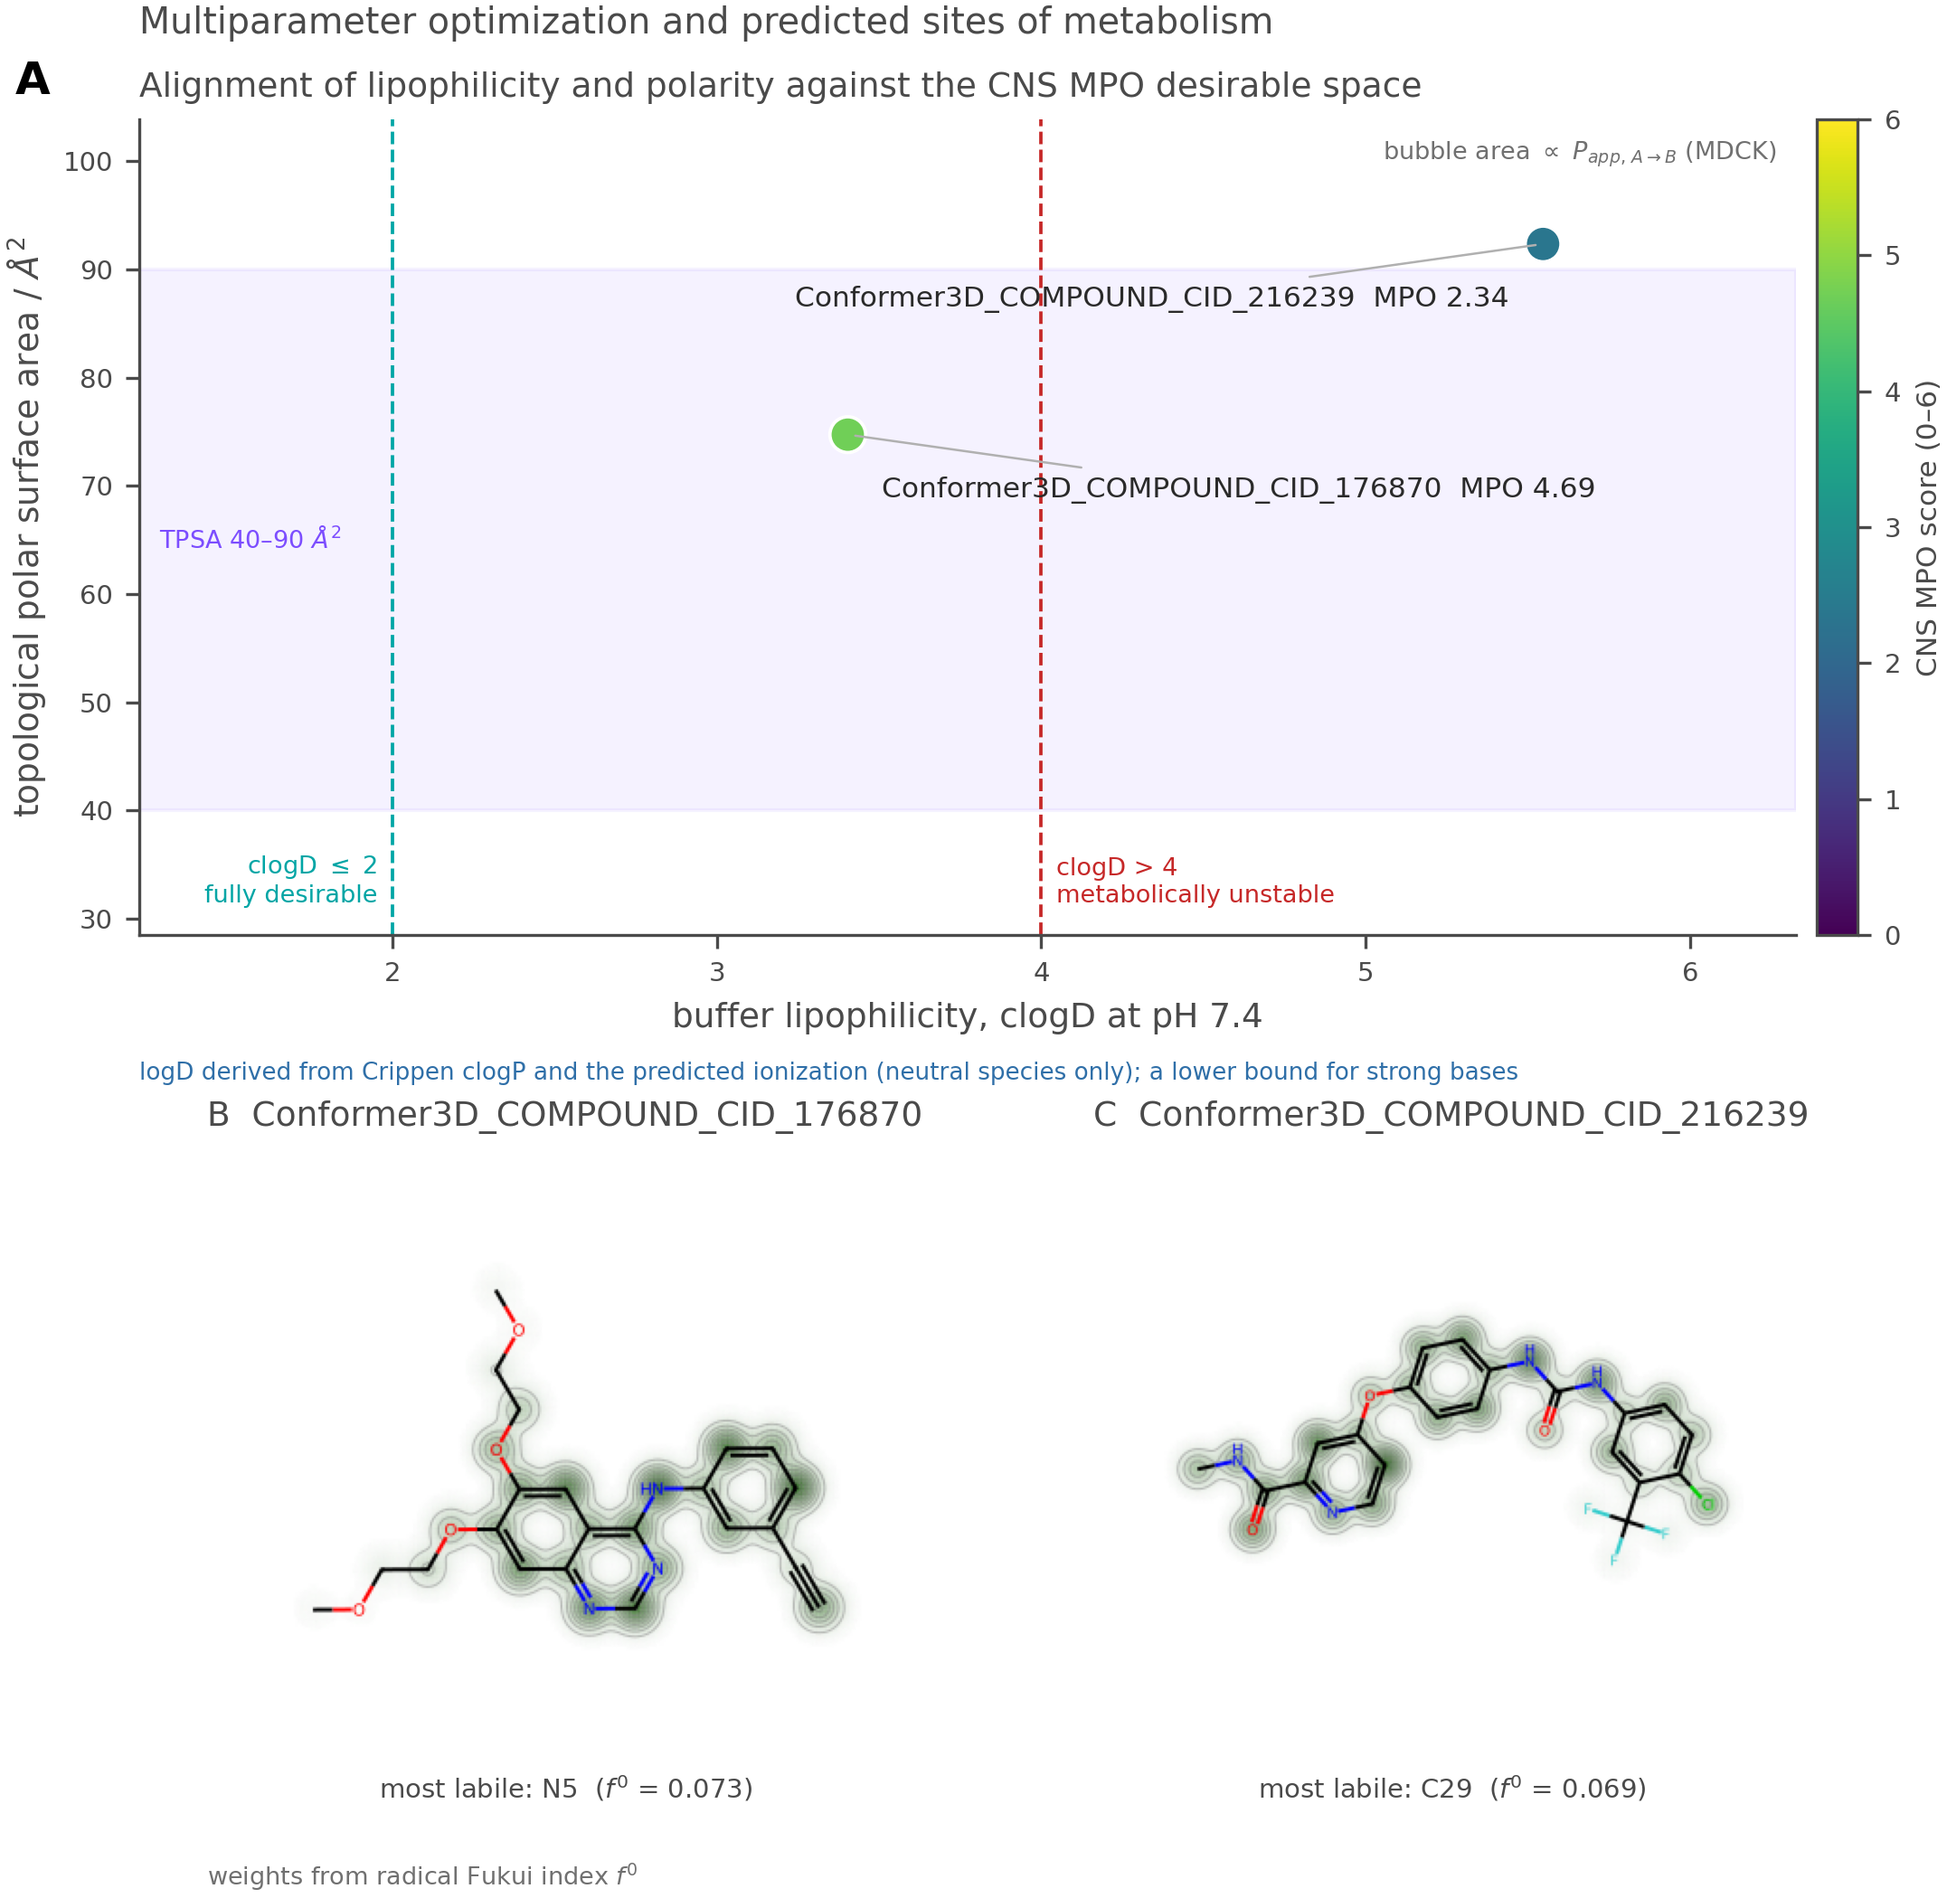
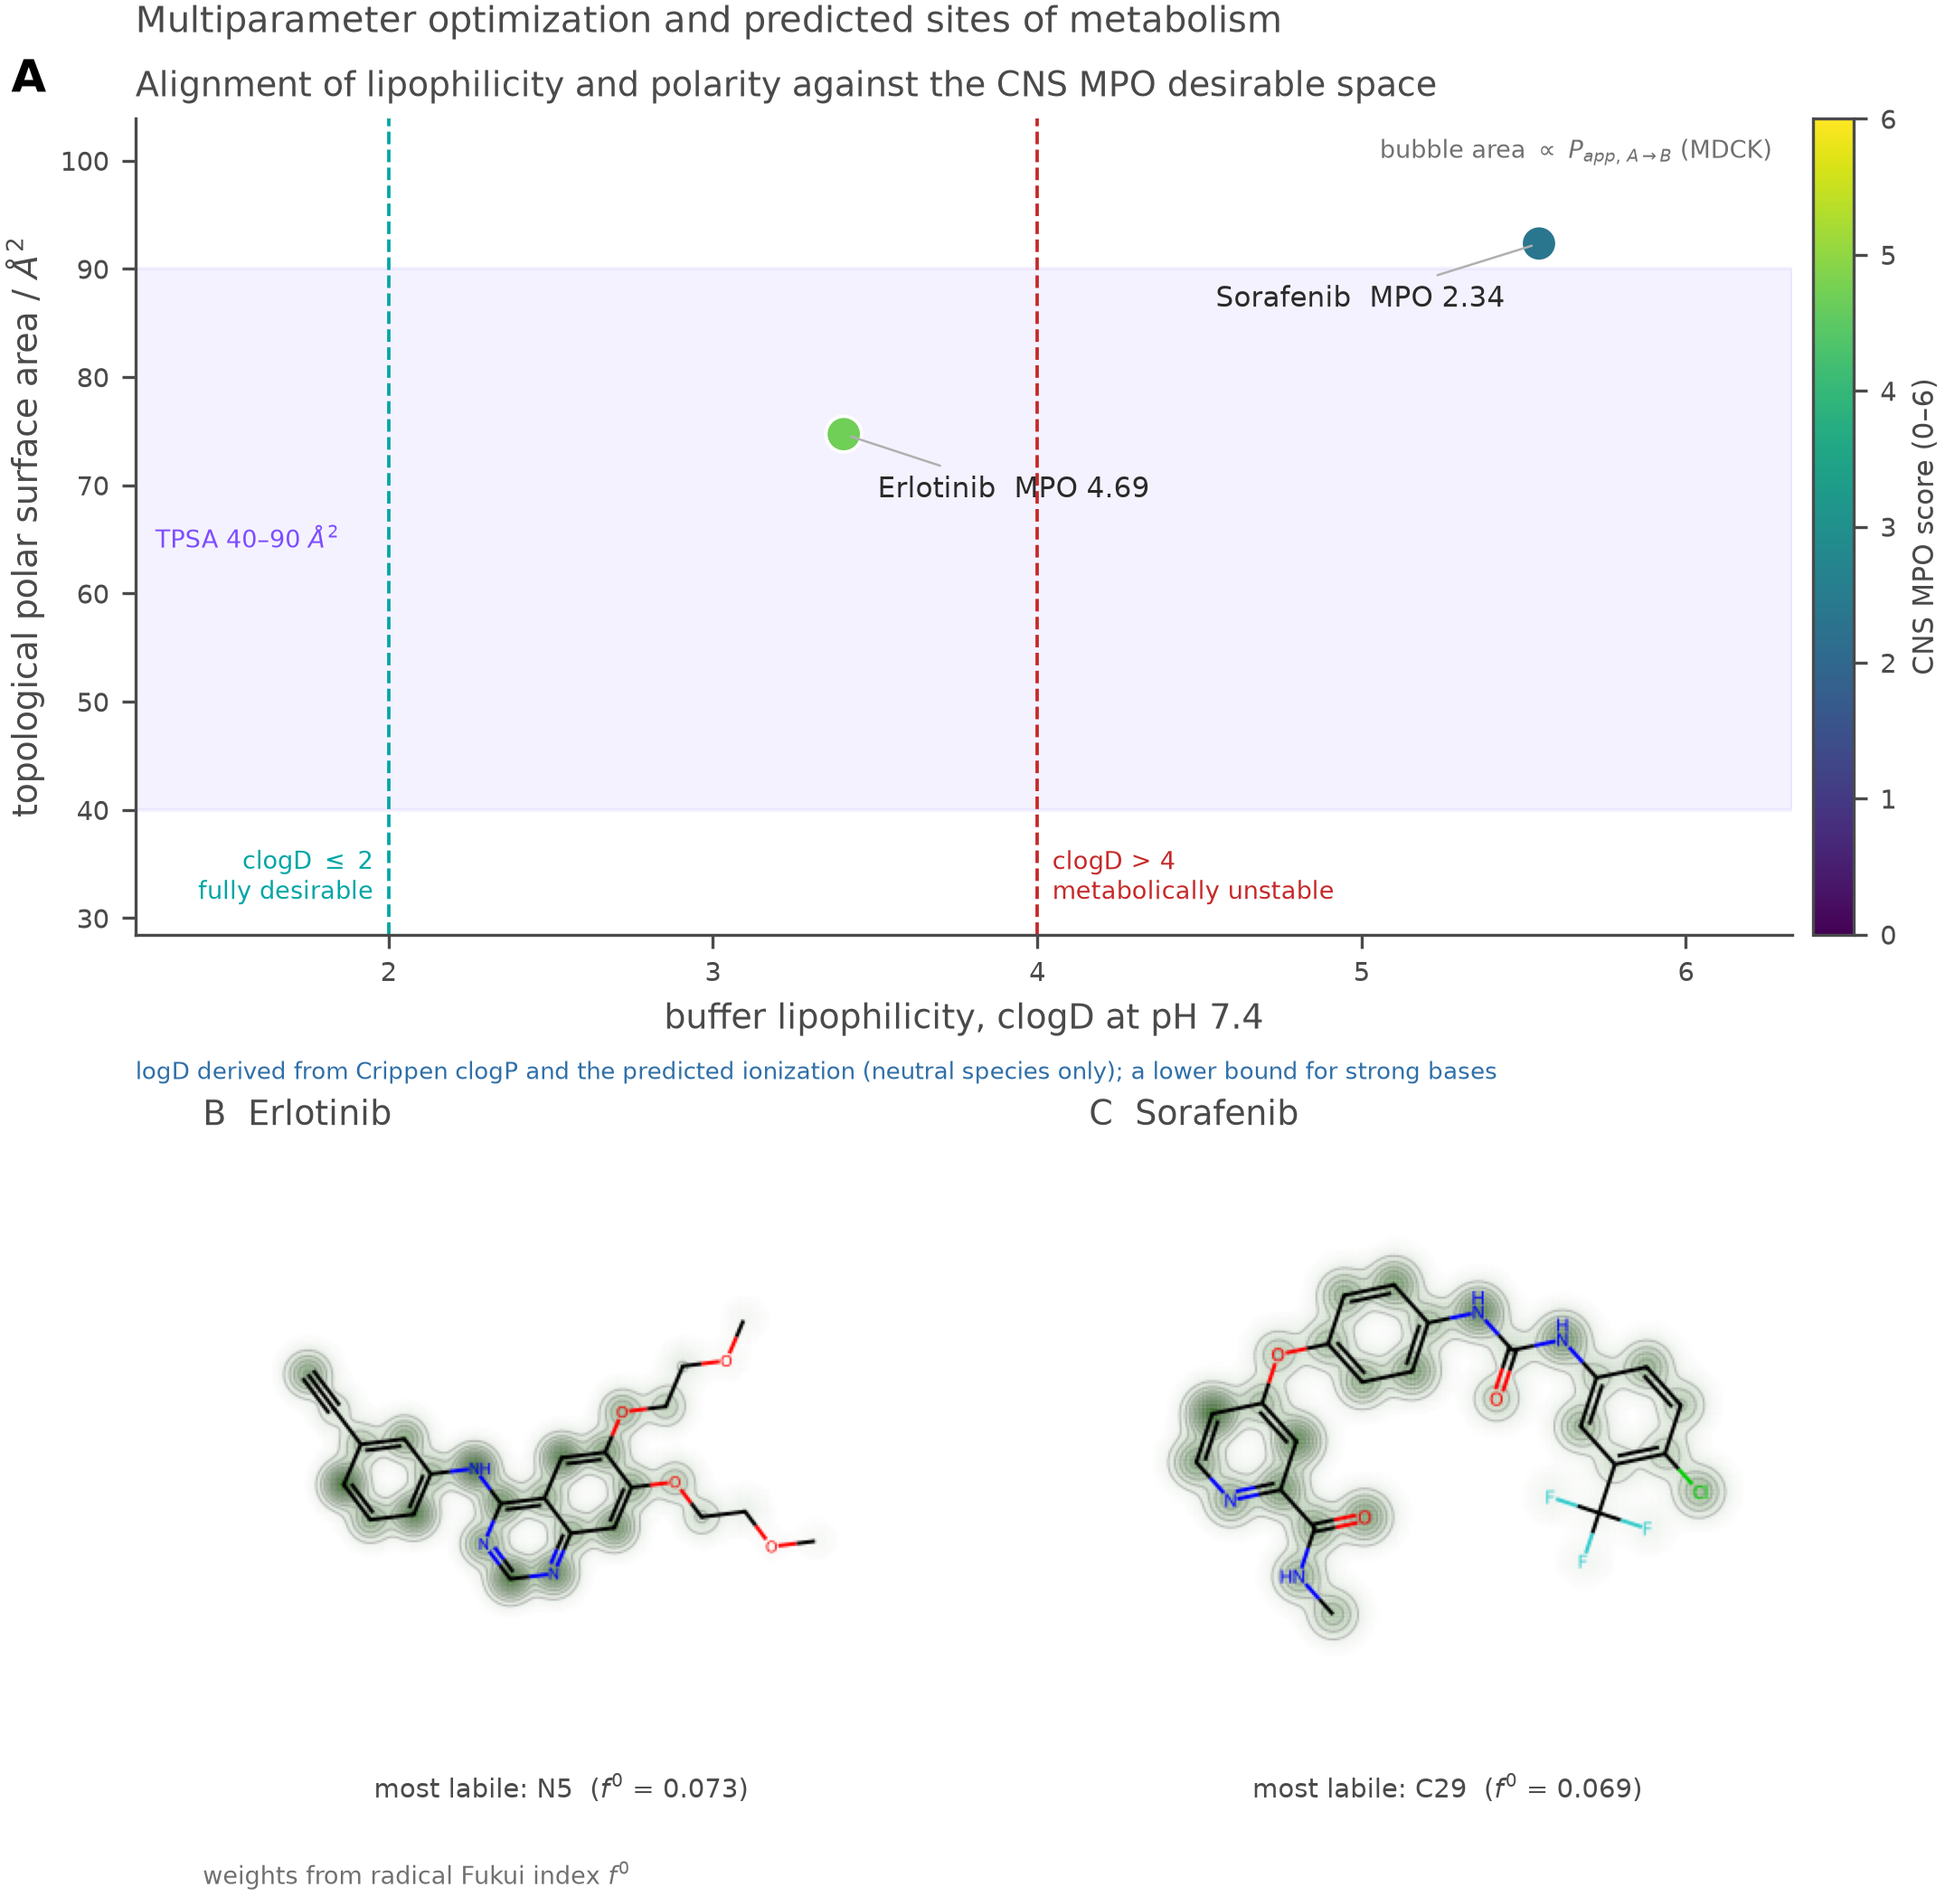
Relabel the README example figures
The committed versions carried the PubChem file names, which collided with each
other in three of the four figures - the exact defect figures.labels was added to
fix, on display in the README. Rebuilt from the same run with the labels set, so
the numbers are unchanged.

diff --git a/README.md b/README.md
@@ -88,9 +88,10 @@ Per-atom logP contributions on the molecular surface, with TPSA and clogP beneat
 logD against TPSA inside the CNS MPO desirable box, bubble area scaled by predicted
 permeability, and the most labile position from the radical Fukui index.
 
-The panels here are labelled with the SDF file names, which is what you get from a
-PubChem download. `figures.labels` maps those to anything you like — the run directories
-keep their own names, so renaming a compound does not recompute anything.
+The molecules are named `Conformer3D_COMPOUND_CID_176870` and `..._216239` on disk,
+because that is what a PubChem download is called. `figures.labels` maps those to
+Erlotinib and Sorafenib for the figures only — the run directories keep their own names,
+so relabelling costs one `dft run figures` and recomputes nothing.
 
 ## Commands
 
